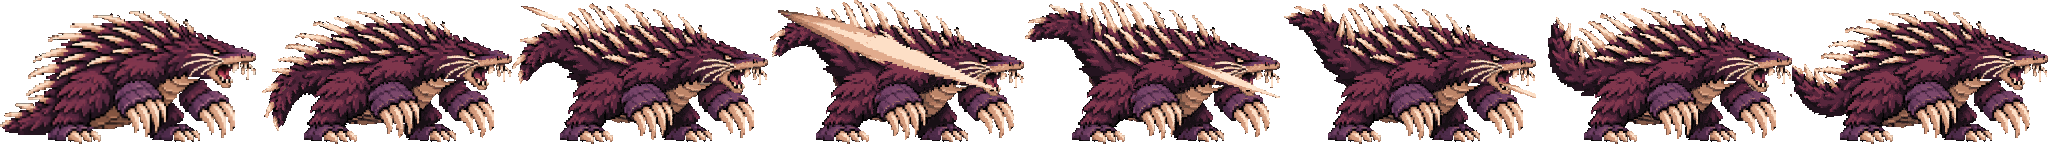
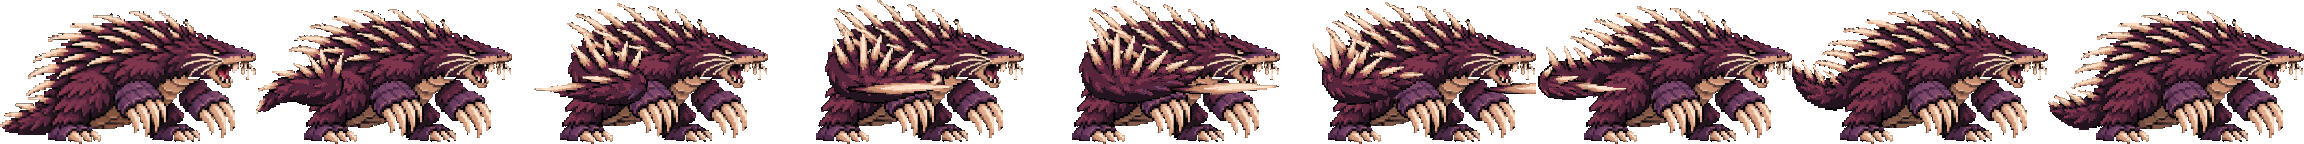
Standing tail shot sweeps along the flank like the crouched one
Regenerated the standing ranged animation so the tail sweeps forward
around the side of the body (matching the crouched version) instead of
arcing over the back. 9 frames at 20 fps.

Claude-Session: https://claude.ai/code/session_01SJ9dCwY7ZiYFpNdNsihnJu

diff --git a/src/presentation.ts b/src/presentation.ts
@@ -30,7 +30,7 @@ export const SPRITES:Record<string,{width:number,anims:Record<string,Strip>}>={
   swipeLeft:{src:'assets/mogurodon-swipe-left.png',frames:10,fps:26,once:true},swipeRight:{src:'assets/mogurodon-swipe-right.png',frames:8,fps:24,once:true},bite:{src:'assets/mogurodon-bite.png',frames:8,fps:20,once:true},
   // Heavy strips are 256x192 (extra headroom for rearing); feet share the same baseline as the 256x144 strips.
   heavyRear:{src:'assets/mogurodon-heavy-rear.png',frames:5,fps:20,once:true},heavyHold:{src:'assets/mogurodon-heavy-hold.png',frames:4,fps:10},heavySlam:{src:'assets/mogurodon-heavy-slam.png',frames:9,fps:18,once:true},
-  rangedStand:{src:'assets/mogurodon-ranged-stand.png',frames:8,fps:20,once:true},rangedCrouch:{src:'assets/mogurodon-ranged-crouch.png',frames:8,fps:20,once:true},
+  rangedStand:{src:'assets/mogurodon-ranged-stand.png',frames:9,fps:20,once:true},rangedCrouch:{src:'assets/mogurodon-ranged-crouch.png',frames:8,fps:20,once:true},
   // Crouch art is drawn at full size (~60% of standing height); crouchUp is crouchDown reversed.
   crouch:{src:'assets/mogurodon-crouch.png',frames:4,fps:6},crouchDown:{src:'assets/mogurodon-crouch-down.png',frames:5,fps:22,once:true},crouchUp:{src:'assets/mogurodon-crouch-up.png',frames:5,fps:22,once:true}}},
 };

diff --git a/README.md b/README.md
@@ -51,7 +51,7 @@ Score is earned points minus actual HP damage penalty, including healed damage. 
 - `src/game.ts`: input, simulation composition, camera, UI, Canvas rendering; update separated from rendering.
 - `public/`: responsive 16:9 shell and asset slots. Art hooks are `monster`, `drawBuilding`, `drawCampaignObjective`, `drawMilitary`, `drawPopulation` and `background`.
 
-**Art:** `public/assets/mogurodon.png` is the first final sprite (transparent, keyed from the supplied render and downscaled to 444×231). Sprites are registered in `SPRITES` in `src/presentation.ts` and used by gameplay, selection previews and the ending scene; kaiju without a sprite fall back to the geometric silhouettes. Mogurodon has an 8-frame idle loop (`public/assets/mogurodon-idle.png`, 256×144 frames, 8 fps) generated with PixelLab from the base sprite via `tools/pixellab_animate.py`; and an 8-frame all-fours walk loop (`public/assets/mogurodon-walk.png`, 10 fps, generated from a planted all-fours pose with that pose as both first and last frame so it closes cleanly) plays while moving on the ground. The light combo plays one-shot strips per hit: 1 overhead right-arm swipe (`mogurodon-swipe-right.png`, 8 frames, 24 fps), 2 left-arm swipe with the far claw raised behind the head (`mogurodon-swipe-left.png`, 10 frames, 26 fps; built from a PixelLab pose-edit keyframe plus two animated segments), 3 lunging bite (`mogurodon-bite.png`, 8 frames, 20 fps). All three start and end on idle frame 0, and idle/walk restart at frame 0 when they begin, so attacks blend in and out of the idle without a pose snap. Heavy (K): holding plays `mogurodon-heavy-rear.png` once (rear back onto the haunches), then loops `mogurodon-heavy-hold.png` while charging; release plays `mogurodon-heavy-slam.png` (overhead slam into the ground with dust, settling back to idle). These strips are 256x192 for headroom. Ranged (L): tail whips forward and flings a spike — `mogurodon-ranged-stand.png` standing, `mogurodon-ranged-crouch.png` while crouched (8 frames, 20 fps each); the projectile is drawn as a bone-white quill. Crouch (S): `mogurodon-crouch-down.png` into `mogurodon-crouch.png` (breathing loop, drawn full size instead of the old 0.6 squash), `mogurodon-crouch-up.png` (reversed) on release. Jump still uses idle/walk. `mogurodon.png` is kept as the higher-res base/reference.
+**Art:** `public/assets/mogurodon.png` is the first final sprite (transparent, keyed from the supplied render and downscaled to 444×231). Sprites are registered in `SPRITES` in `src/presentation.ts` and used by gameplay, selection previews and the ending scene; kaiju without a sprite fall back to the geometric silhouettes. Mogurodon has an 8-frame idle loop (`public/assets/mogurodon-idle.png`, 256×144 frames, 8 fps) generated with PixelLab from the base sprite via `tools/pixellab_animate.py`; and an 8-frame all-fours walk loop (`public/assets/mogurodon-walk.png`, 10 fps, generated from a planted all-fours pose with that pose as both first and last frame so it closes cleanly) plays while moving on the ground. The light combo plays one-shot strips per hit: 1 overhead right-arm swipe (`mogurodon-swipe-right.png`, 8 frames, 24 fps), 2 left-arm swipe with the far claw raised behind the head (`mogurodon-swipe-left.png`, 10 frames, 26 fps; built from a PixelLab pose-edit keyframe plus two animated segments), 3 lunging bite (`mogurodon-bite.png`, 8 frames, 20 fps). All three start and end on idle frame 0, and idle/walk restart at frame 0 when they begin, so attacks blend in and out of the idle without a pose snap. Heavy (K): holding plays `mogurodon-heavy-rear.png` once (rear back onto the haunches), then loops `mogurodon-heavy-hold.png` while charging; release plays `mogurodon-heavy-slam.png` (overhead slam into the ground with dust, settling back to idle). These strips are 256x192 for headroom. Ranged (L): tail whips forward and flings a spike — `mogurodon-ranged-stand.png` standing (9 frames), `mogurodon-ranged-crouch.png` while crouched (8 frames), both 20 fps with the tail sweeping forward along the flank; the projectile is drawn as a bone-white quill. Crouch (S): `mogurodon-crouch-down.png` into `mogurodon-crouch.png` (breathing loop, drawn full size instead of the old 0.6 squash), `mogurodon-crouch-up.png` (reversed) on release. Jump still uses idle/walk. `mogurodon.png` is kept as the higher-res base/reference.
 
 No user sprites were imported or overwritten; supplied documents were preserved. All current art is explicitly temporary Canvas geometry, with no AI asset generation or sound. Put final hand-drawn sprites in `public/assets/`, preserve transparent originals, use bottom-center anchors, integer frame rectangles and nearest-neighbor filtering. Final kaiju sheets, building/unit sprites, intro/menu and six ending illustrations remain missing.
 
